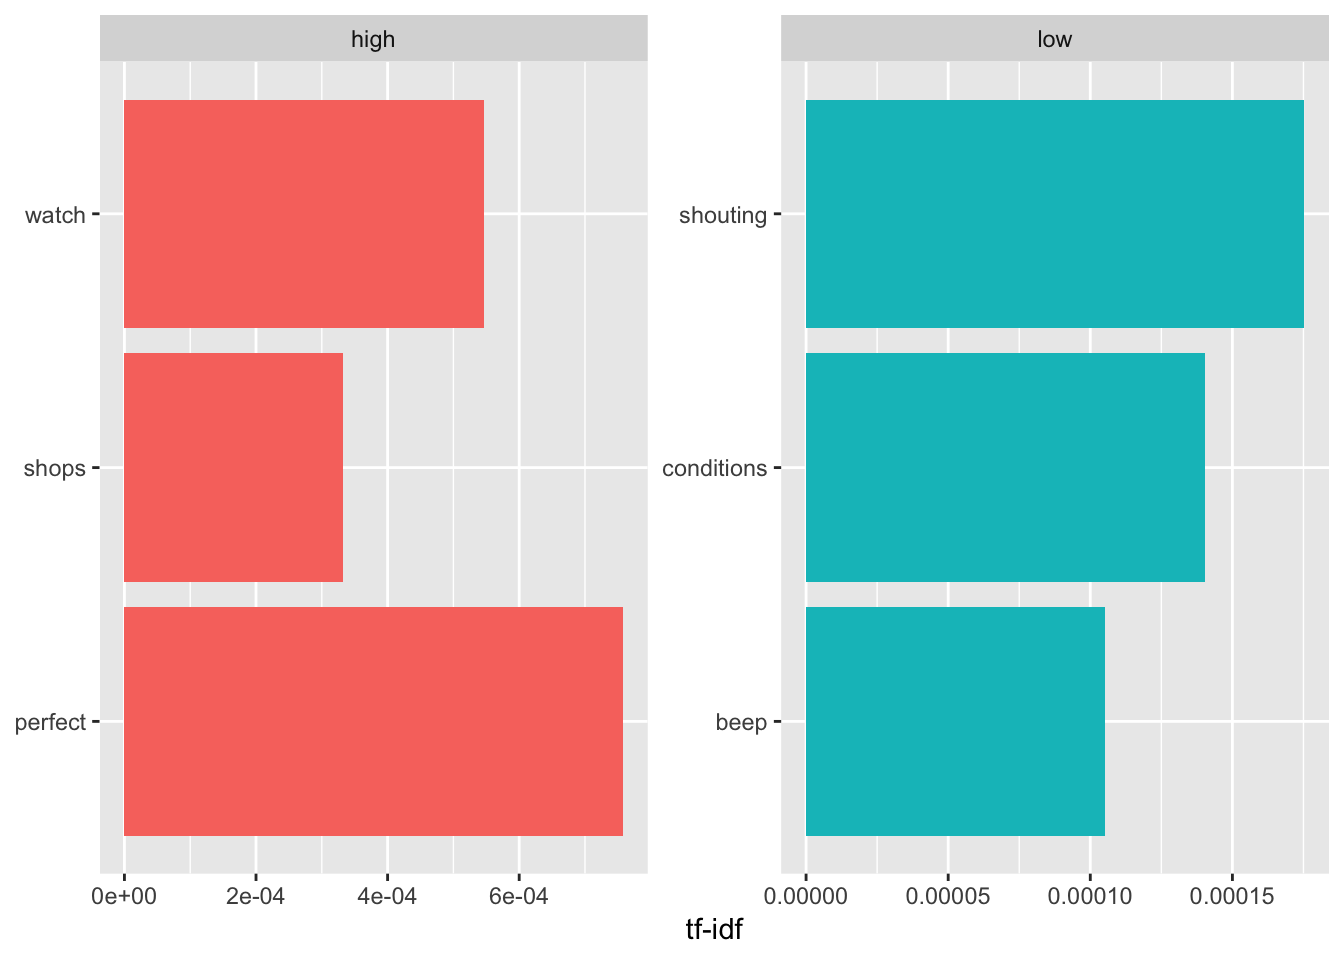
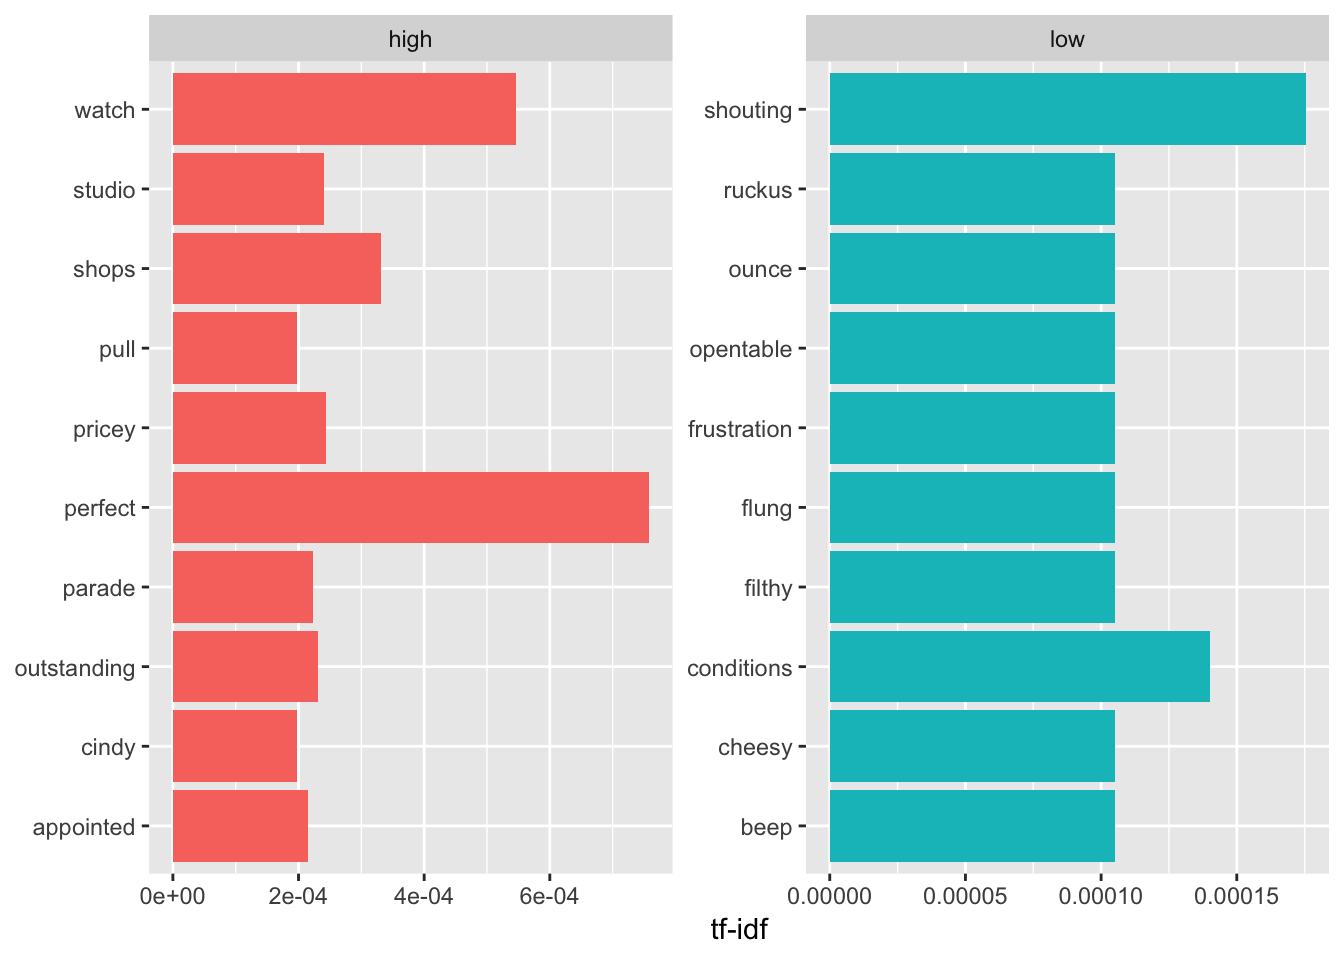
second

diff --git a/content/post/2019-04-26-grand-floridian-hotel-reviews.html b/content/post/2019-04-26-grand-floridian-hotel-reviews.html
@@ -11,19 +11,24 @@ tags:
 
 
 
-<p>##Grand Floridian Hotel Reviews: Sentiment Analysis and NLP
-#### The data for this analysis was obtained from the reviews posted on TripAdvisor. I used RSelenium and rvest to extract the data from the first 3000 dynamic web-pages on the TripAdvisor site, which was 2,350 reviews in total. The code used to do this is published on my GitHub. Here, I load the the Rda file I saved from that extraction.</p>
+<div id="grand-floridian-hotel-reviews-sentiment-analysis-and-nlp" class="section level2">
+<h2>Grand Floridian Hotel Reviews: Sentiment Analysis and NLP</h2>
+<p>The data for this analysis was obtained from the reviews posted on TripAdvisor. I used RSelenium and rvest to extract the data from the first 3000 dynamic web-pages on the TripAdvisor site, which was 2,350 reviews in total. The code used to do this is published on my GitHub. Here, I load the the Rda file I saved from that extraction.</p>
 <pre class="r"><code>library(tidyverse)
 library(zoo)
 library(knitr)
+library(tidytext)
+library(SnowballC)
+
+#load data
 rdf&lt;-readRDS(&quot;first_3000.Rda&quot;)
 str(rdf)</code></pre>
 <pre><code>## &#39;data.frame&#39;:    2350 obs. of  3 variables:
 ##  $ rating : int  5 5 5 5 5 3 5 5 4 5 ...
 ##  $ id_date: Factor w/ 75 levels &quot;Date of stay: April 2019&quot;,..: 1 3 2 2 2 1 2 2 2 3 ...
 ##  $ reviews: Factor w/ 2344 levels &quot;Family Vacation dreams come true.  We have always wanted to stay at Grand Floridian and this time we finally we&quot;| __truncated__,..: 4 3 1 2 5 10 7 9 6 8 ...</code></pre>
-<p>This is the raw version of the data as obtained from the site: it has the text content of the review, the star rating (1-5), and the date of stay (month/year).
-It requires a bit of cleaning to get in the form we want.</p>
+<p>This is the raw version of the data as obtained from the site: it has the text content of the review, the star rating (1-5), and the date of stay (month/year).</p>
+<p>It requires a bit of cleaning to get in the form we want.</p>
 <pre class="r"><code>#rename &amp; change variable type
 rdf &lt;- rdf %&gt;% rename(stay_date = id_date,
 review = reviews) %&gt;%
@@ -50,42 +55,48 @@ head(rdf)</code></pre>
 ## 4                                                                                                                                                                                                                                                                                                                                                                                                                                                                                                                                                                                                                                                                                                                                                                                                                                                                                                                                                                                                                                                                                                                                                                                                                                                                                                                                                                                                                                                                                                                                                                                                                                                                                                                                                                                                                                                                                                                                                                                                                                                                                                                                                                                                                                                                                                                      First experience staying at The Grand Floridian with my husband and almost two year old.  We had a blast! The hotel itself is stunning.  Grounds well kept, impressive lobby and very nice rooms.  The resort is spread out which is nice as there is not a ton of people you come across trying to get to your room from the lobby or pool area.  This is a nice escape from the hectic crowds you face at the parks.  One of the biggest pluses for this resort is the close proximity to Magic Kingdom.  The monorail makes getting around Epcot and Magic Kingdom a breeze.  It also makes bus lines less hectic to the other parks because many people are using the monorail to get to those monorail  parks!  1800 Park Fare was a lovely character dinner for my daughter.  The characters engaged with her really well even though she was quite shy.  My one piece of advise is that the pool areas need more chairs.  There were several occasions that there were no seats available and we needed a pool attendant to assist us (which they did).  Overall, this will likely become our go to Disney hotel!
 ## 5                                                                                                                                                                                                                                                                                                                                                                                                                                                                                                                                                                                                                                                                                                                                                                                                                                                                                                                                                                                                                                                                                                                                                                                                                                                                                                                                                                                                                                                                                                                                                                                                                                                                                                                                                                                                                                                                                                                                                                                                                                                                                                                                                                                                                                                                                                                                                                                                                                                                                                                                                                                                                                                                                                                                                                                                                                                      Words that come to mindMagicalnot a beat missed - stayed ten years ago at the club level concierge floor - the service got better!You are met at the hotel entrance by your hostAlberto was oursescorted to the private concierge floor, all details of stay outlined,then the roomOne Upon a Time pillowsfabulous mattress and bed dressings beyond ...loved the Softening Mint foot rub provided ( wonderful after a Magical Day in the parks )the food and desert presentations were beautiful and very tasty = Yum Yum!Always remember you pay for privilege - Australia knows GREAT
 ## 6                                                                                                                                                                                                                                                                                                                                                                                                                                                                                                                                                                                                                                                                                                                                                                                                                                                                                                                                                                                                                                                                                                                                                                                                                                                                                                                                                                                                                                                                                                                                                                                                                                                                                                                                                                                                                                                                                                                                                                                                                                                                                                                                                                                                                                                                                                                                                                                                                                                                                                                                                                                                                                                                                                                                                                                                                                                                                                                                 Yes this is a beautiful place but I have been to resorts that had better amenities and service. It is on the disney resort with a hodgepodge of style. Old , new, beach, or lake not sure this place has its nitch. The food is why I knocked the stars down. The food is ok to say the least. As a first time visitor I was not wowed. You are not getting your bang for your buck. Open your wallet and throw your money out the window and make sure you get something to eat before you open your wallet.</code></pre>
+<p>Now we can plot the share each rating category (1-5) over time.</p>
 <pre class="r"><code>rdf %&gt;% 
   ggplot(aes(x=stay_date))+geom_bar(aes(fill=rating))+scale_x_yearmon(format = &quot;%b-%y&quot;)</code></pre>
-<p><img src="/post/2019-04-26-grand-floridian-hotel-reviews_files/figure-html/unnamed-chunk-3-1.png" width="672" /></p>
-<pre class="r"><code>colors&lt;-c(&quot;cadetblue1&quot;, &quot;deepskyblue&quot;, &quot;deepskyblue3&quot;,&quot;deepskyblue4&quot;,&quot;dodgerblue3&quot;)
-# rdf %&gt;% count(rating,stay_date,sort = T) %&gt;% group_by(stay_date) %&gt;%
-#   mutate(freq = n / sum(n)) %&gt;% arrange(desc(freq,stay_date))
+<p><img src="/post/2019-04-26-grand-floridian-hotel-reviews_files/figure-html/unnamed-chunk-3-1.png" width="672" />
+It seems like most reviews have been consistenly positive. It also appears that not many reviews were given in early 2015. Though it is possible that the resort had fewer people stay during this time (e.g. renovations/construction), it is more likely that this data is missing. However, we can still analyze the distribution of reviews that we do have. For example, what is the total distribution of each rating category?</p>
+<pre class="r"><code>#set color
+colors&lt;-c(&quot;cadetblue1&quot;, &quot;deepskyblue&quot;, &quot;deepskyblue3&quot;,&quot;deepskyblue4&quot;,&quot;dodgerblue3&quot;)
 
-# %&gt;%  ggplot(aes(x=stay_date,y=freq,color=rating))+geom_line(aes(group=rating))+scale_x_yearmon(format = &quot;%b-%y&quot;)
 rdf %&gt;% 
   ggplot(aes(x=rating,fill=rating))+geom_bar()+scale_fill_manual(values=colors)</code></pre>
-<p><img src="/post/2019-04-26-grand-floridian-hotel-reviews_files/figure-html/unnamed-chunk-4-1.png" width="672" /></p>
-<pre class="r"><code>library(tidytext)
-library(SnowballC)
-
-rdf_tidy&lt;-rdf %&gt;% mutate(review_num=row_number()) %&gt;%
+<p><img src="/post/2019-04-26-grand-floridian-hotel-reviews_files/figure-html/unnamed-chunk-4-1.png" width="672" />
+##Sentiment Analysis
+Using the tidytext package, we first transform the text of the reviews into tidy format. We remove stop words and filter unwanted characters. Then, we can visualize the most common words in the text of all reviews.</p>
+<pre class="r"><code>rdf_tidy &lt;- rdf %&gt;% mutate(review_num = row_number()) %&gt;%
   unnest_tokens(word, review) %&gt;%
-  anti_join(stop_words) %&gt;%filter(str_detect(word, &quot;^[a-z&#39;]+$&quot;)) %&gt;% 
-  distinct() </code></pre>
-<pre><code>## Joining, by = &quot;word&quot;</code></pre>
-<pre class="r"><code>most_common_words&lt;-rdf_tidy %&gt;%
-  group_by(word) %&gt;% 
-  summarize(
-  freq=n()) %&gt;% 
-  arrange(desc(freq)) 
-##rearrange by frequency, eliminate duplicates by reducing word to word to stem (e.g. stayed to stay)
-most_common_words %&gt;% 
-  mutate(word = reorder(word, freq)) %&gt;% 
-  head(25) %&gt;%  ggplot(aes(x=word,y=freq))+ geom_segment(aes(x=word ,xend=word, y=0, yend=freq),color=&quot;black&quot;) +
-  geom_point(size=3, color=&quot;deepskyblue&quot;)+
-  labs(title = &quot;Top 25 Most Common Words in Review Text&quot;, y = &quot;# times used&quot;, x=&quot;&quot;) + coord_flip()</code></pre>
+  anti_join(stop_words) %&gt;% filter(str_detect(word, &quot;^[a-z&#39;]+$&quot;)) %&gt;%
+  distinct()
+
+most_common_words &lt;- rdf_tidy %&gt;%
+  group_by(word) %&gt;%
+  summarize(freq = n()) %&gt;%
+  arrange(desc(freq))
+
+#rearrange by frequency, eliminate duplicates
+
+most_common_words %&gt;%
+  mutate(word = reorder(word, freq)) %&gt;%
+  head(25) %&gt;%  ggplot(aes(x = word, y = freq)) + geom_segment(aes(
+    x = word ,
+    xend = word,
+    y = 0,
+    yend = freq
+  ), color = &quot;black&quot;) +
+  geom_point(size = 3, color = &quot;deepskyblue&quot;) +
+  labs(title = &quot;Top 25 Most Common Words in Review Text&quot;, y = &quot;# times used&quot;, x =
+         &quot;&quot;) + coord_flip()</code></pre>
 <p><img src="/post/2019-04-26-grand-floridian-hotel-reviews_files/figure-html/unnamed-chunk-5-1.png" width="672" /></p>
-<pre class="r"><code>##group rating 1,2; rating 3,4; rating 5 &amp; examine most common in each category
+<p>If we want to compare word usage between good and bad reviews, we can use the inverse document frequency. In other words, which words appear frequently in high reviews but not low (and vice versa)?</p>
+<pre class="r"><code>#group rating 1&amp;2 into &quot;low&quot; category; rating 3,4,&amp; 5 &amp; into &quot;high&quot; category
 by_rate&lt;-rdf %&gt;% 
    mutate(rating_group = case_when(rating == &quot;1&quot;|rating ==&quot;2&quot; ~ &quot;low&quot;,TRUE~&quot;high&quot;)) 
 
-##get inverse document frequency: which words appear frequently in one category but not in the others? (e.g. appears frequently in high reviews but not in low)
 
 by_rate_inverse&lt;-by_rate %&gt;% unnest_tokens(word, review) %&gt;%
   count(rating_group,word,sort=TRUE) %&gt;% filter(!nchar(word) &lt;= 3) %&gt;% 
@@ -95,7 +106,7 @@ by_rate_inverse&lt;-by_rate %&gt;% unnest_tokens(word, review) %&gt;%
  
 by_rate_inverse %&gt;% 
   mutate(word = factor(word, levels = rev(unique(word)))) %&gt;% 
-  group_by(rating_group) %&gt;% filter(rank&lt;=3) %&gt;% 
+  group_by(rating_group) %&gt;% filter(rank&lt;=10) %&gt;% 
   ungroup() %&gt;%
   ggplot(aes(word, tf_idf, fill = rating_group)) +
   geom_col(show.legend = FALSE) +
@@ -258,3 +269,4 @@ head(summary_pos,15) %&gt;% ggplot(aes(x=reviews,y=average_rat))+ geom_point() +
 # head(by_rate)
 # 
 # reviewtokensdfm=dfm(by_rate,tolower = FALSE)</code></pre>
+</div>
